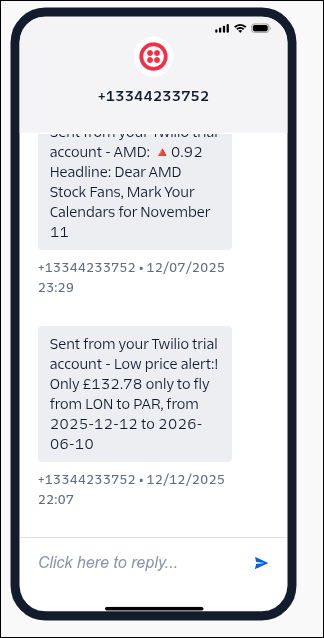
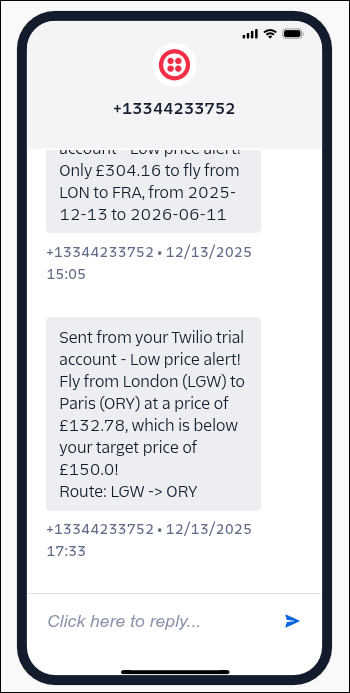
finish day 39 to 40

diff --git a/039. Day 39 - Intermediate+ Capstone Part 1 Flight Deal Finder/main.py b/039. Day 39 - Intermediate+ Capstone Part 1 Flight Deal Finder/main.py
@@ -13,7 +13,9 @@ load_dotenv()
 root = Path(__file__).parent
 SPREADSHEET_ID = os.getenv("SPREADSHEET_ID")
 SCOPES = ["https://www.googleapis.com/auth/spreadsheets"]
-full_range = "A:C"
+prices_sheet = "Prices!"
+users_sheet = "Users!"
+full_range_prices = f"{prices_sheet}A:C"
 
 amadeus = AmadeusClient()
 gsheet = GSheetClient(SPREADSHEET_ID, SCOPES)
@@ -33,7 +35,7 @@ def save_json(file, file_name: str | None = None):
 
 
 def fill_iata_columns():
-    cities = gsheet.get_values("A2:A")["values"]  # type: ignore
+    cities = gsheet.get_values(f"{prices_sheet}A2:A")["values"]  # type: ignore
     iata_codes = []
     print("Filling IATA Columns...")
     for city in cities:
@@ -42,7 +44,8 @@ def fill_iata_columns():
         iata_code = data["iataCode"]
         iata_codes.append([iata_code])
 
-    result = gsheet.update_values("B2:B", iata_codes, "USER_ENTERED")
+    result = gsheet.update_values(
+        f"{prices_sheet}B2:B", iata_codes, "USER_ENTERED")
     if result:
         print("Successfully updated IATA Codes in Google Sheets.")
 
@@ -57,49 +60,123 @@ def get_from_to_dates() -> tuple[str, str]:
     return from_date, to_date
 
 
-def get_sheet_values() -> tuple[list, list, list]:
-    values = gsheet.get_values("A2:C")["values"]  # type: ignore
-    cities, iata_codes, prices = [], [], []
-    for city, code, price in values:
-        cities.append(city)
-        iata_codes.append(code)
-        prices.append(int(price))
-
-    return cities, iata_codes, prices
+def get_prices_sheet():
+    values = gsheet.get_values(f"{prices_sheet}A2:C")["values"]  # type: ignore
+    return values
 
 
-def find_cheap_flights():
-    """Searches for flights cheaper than the prices define in Google Sheet"""
-    departure_date, return_date = get_from_to_dates()
-    cities, iata_codes, prices = get_sheet_values()
+def get_users_sheet():
+    values = gsheet.get_values(f"{users_sheet}B2:D")["values"]  # type: ignore
+    return values
 
-    origin_location = input("Enter IATA code to depart from: ").upper()
 
-    for i, dest in enumerate(iata_codes):
-        flight_data = FlightData(
-            origin_location, dest, departure_date, return_date)
+def get_flight_data(flight_data):
+    """
+    Helper: Tries to find direct flights. If none, tries indirect.
+    Returns: The list of flight offers, or None if nothing found.
+    """
+    # 1. Try Direct
+    try:
+        flight_data.is_direct = True
+        print(
+            f"\nSearching direct: {flight_data.origin} -> {flight_data.destination}...")
         response = amadeus.search_offers(flight_data)
-        data = response["data"]
+
+        if response["data"]:
+            return response["data"]
+
+        # 2. Fallback to Indirect
+        print(f"Direct flights not found. Trying indirect...")
+        flight_data.is_direct = False
+        response = amadeus.search_offers(flight_data)
+
+        if response["data"]:
+            print("Indirect flights found!")
+            return response["data"]
+
+        print("No flights found (direct or indirect).")
+        return None
+    except Exception as e:
+        print(f"Error: {e}")
+
+
+def process_flight_details(flight_offer):
+    """
+    Helper: Parses the JSON, prints route segments.
+    Returns: (price, route_string, destination_code)
+    """
+    price = float(flight_offer["price"]["total"])
+
+    segments = flight_offer["itineraries"][0]["segments"]
+
+    # Grab the final destination code (last segment's arrival)
+    dest = segments[-1]["arrival"]["iataCode"]
+    origin = segments[0]["departure"]["iataCode"]
+
+    # Build the route string
+    route_str = " -> ".join([s["departure"]["iataCode"] for s in segments])
+    route_str += f" -> {dest}"
+
+    print(f"Route: {route_str}")
+    print(f"Price: £{price}")
+
+    # Return all three
+    return price, route_str, dest, origin
+
+
+def send_email_to_users(msg: str):
+    users_sheet = get_users_sheet()
+    for name, surname, email in users_sheet:
+        subject = "Cheap flight deals!"
+        body = f"Greetings, {name} {surname}! {msg}"
+        message = f"Subject:{subject}\n\n{body}"
+        message = message.encode("utf-8")
+        NotificationManager.send_email(message, email)
+
+
+def find_cheap_flights(origin, origin_iata):
+
+    departure_date, return_date = get_from_to_dates()
+    prices_sheet = get_prices_sheet()
+
+    for city, code, price in prices_sheet:
+        flight_data = FlightData(
+            origin=origin_iata,
+            dest=code,
+            departure_date=departure_date,
+            return_date=return_date,
+            currency_code="GBP"
+        )
+
+        data = get_flight_data(flight_data)
+
         if not data:
-            print(
-                f"Flight offers `{origin_location} to {dest}` not found.")
             continue
 
-        # save_json(response, f"temp{i}.json")
-        first_item = data[0]
-        id = first_item["id"]
-        lowest_price = float(first_item["price"]["total"])
-        print(f"Lowest price: £{lowest_price}")
+        lowest_price, route_str, final_dest, origin_iata = process_flight_details(
+            data[0])
 
-        is_price_cheaper = lowest_price < float(prices[i])
-        if is_price_cheaper:
-            message = f"Low price alert! Only £{lowest_price} only to fly from {origin_location} to {dest}, from {departure_date} to {return_date}"
-            print(message)
+        target_price = float(price)
+        if lowest_price < target_price:
+            message = (f"Low price alert! Fly from {origin} ({origin_iata}) to {city} ({final_dest}) at a price of £{lowest_price}"
+                       f", which is below your target price of £{target_price}!\nRoute: {route_str}")
+            print(f"*** {message} ***")
             NotificationManager.twilio_notify(message)
+            send_email_to_users(message)
 
 
 def main():
-    find_cheap_flights()
+    while True:
+        origin = input("\nEnter city to depart from: ").title()
+        try:
+            origin_iata = amadeus.city_search(origin)["data"][0]["iataCode"]
+        except:
+            print("Invalid city. Try again.")
+            continue
+        else:
+            find_cheap_flights(origin, origin_iata)
+            print("Process finished")
+            break
 
 
 if __name__ == "__main__":

diff --git a/039. Day 39 - Intermediate+ Capstone Part 1 Flight Deal Finder/amadeus.py b/039. Day 39 - Intermediate+ Capstone Part 1 Flight Deal Finder/amadeus.py
@@ -11,12 +11,16 @@ root = Path(__file__).parent
 
 
 class FlightData:
-    def __init__(self, origin: str, dest: str, departure_date: str, return_date: str, currency_code: str = "GBP"):
+    def __init__(self, origin: str, dest: str, departure_date: str, return_date: str, currency_code: str = "GBP", is_direct: bool = True):
         self.origin = origin
         self.destination = dest
         self.departure_date = departure_date
         self.return_date = return_date
         self.currency_code = currency_code
+        self.is_direct = is_direct
+
+    def __str__(self) -> str:
+        return str(self.__dict__)
 
 
 class AmadeusClient:
@@ -114,14 +118,13 @@ class AmadeusClient:
             "departureDate": flight_data.departure_date,
             "returnDate": flight_data.return_date,
             "adults": 1,
-            "nonStop": "true",
+            "nonStop": "true" if flight_data.is_direct else "false",
             "currencyCode": flight_data.currency_code,
             "max": 5
         }
 
-        print(
-            f"\nSearching flights from {flight_data.origin} to {flight_data.destination}...")
         response = requests.get(
             url=endpoint, params=params, headers=self.auth_headers)
+        response.raise_for_status()
 
         return response.json()

diff --git a/039. Day 39 - Intermediate+ Capstone Part 1 Flight Deal Finder/notification.py b/039. Day 39 - Intermediate+ Capstone Part 1 Flight Deal Finder/notification.py
@@ -1,4 +1,5 @@
 from twilio.rest import Client
+from smtplib import SMTP
 import os
 
 account_sid = os.getenv("TWILIO_ACCOUNT_SID")
@@ -7,6 +8,9 @@ client = Client(account_sid, auth_token)
 
 sender_num = str(os.getenv("SENDER"))
 receiver_num = str(os.getenv("RECEIVER"))
+
+sender_email = str(os.getenv("SENDER_EMAIL"))
+app_password = str(os.getenv("APP_PASSWORD"))
 
 
 class NotificationManager:
@@ -20,5 +24,13 @@ class NotificationManager:
             from_=from_,
             to=to,
         )
-        print(message.status)
         print(f"Message sent to {to}")
+
+    @staticmethod
+    def send_email(msg, to_address: str):
+        with SMTP("smtp.gmail.com") as connection:
+            connection.starttls()
+            connection.login(sender_email, app_password)
+            connection.sendmail(from_addr=sender_email,
+                                to_addrs=to_address, msg=msg)
+            print(f"Email sent to {to_address}")

diff --git a/039. Day 39 - Intermediate+ Capstone Part 1 Flight Deal Finder/gsheet.py b/039. Day 39 - Intermediate+ Capstone Part 1 Flight Deal Finder/gsheet.py
@@ -50,7 +50,7 @@ class GSheetClient:
                 .execute()
             )
             rows = result.get("values", [])
-            print(f"{len(rows)} rows retrieved")
+            # print(f"{len(rows)} rows retrieved")
             return result
         except HttpError as error:
             print(f"An error occurred: {error}")
@@ -65,7 +65,7 @@ class GSheetClient:
                 .execute()
             )
             ranges = result.get("valueRanges", [])
-            print(f"{len(ranges)} ranges retrieved")
+            # print(f"{len(ranges)} ranges retrieved")
             return result
         except HttpError as error:
             print(f"An error occurred: {error}")
